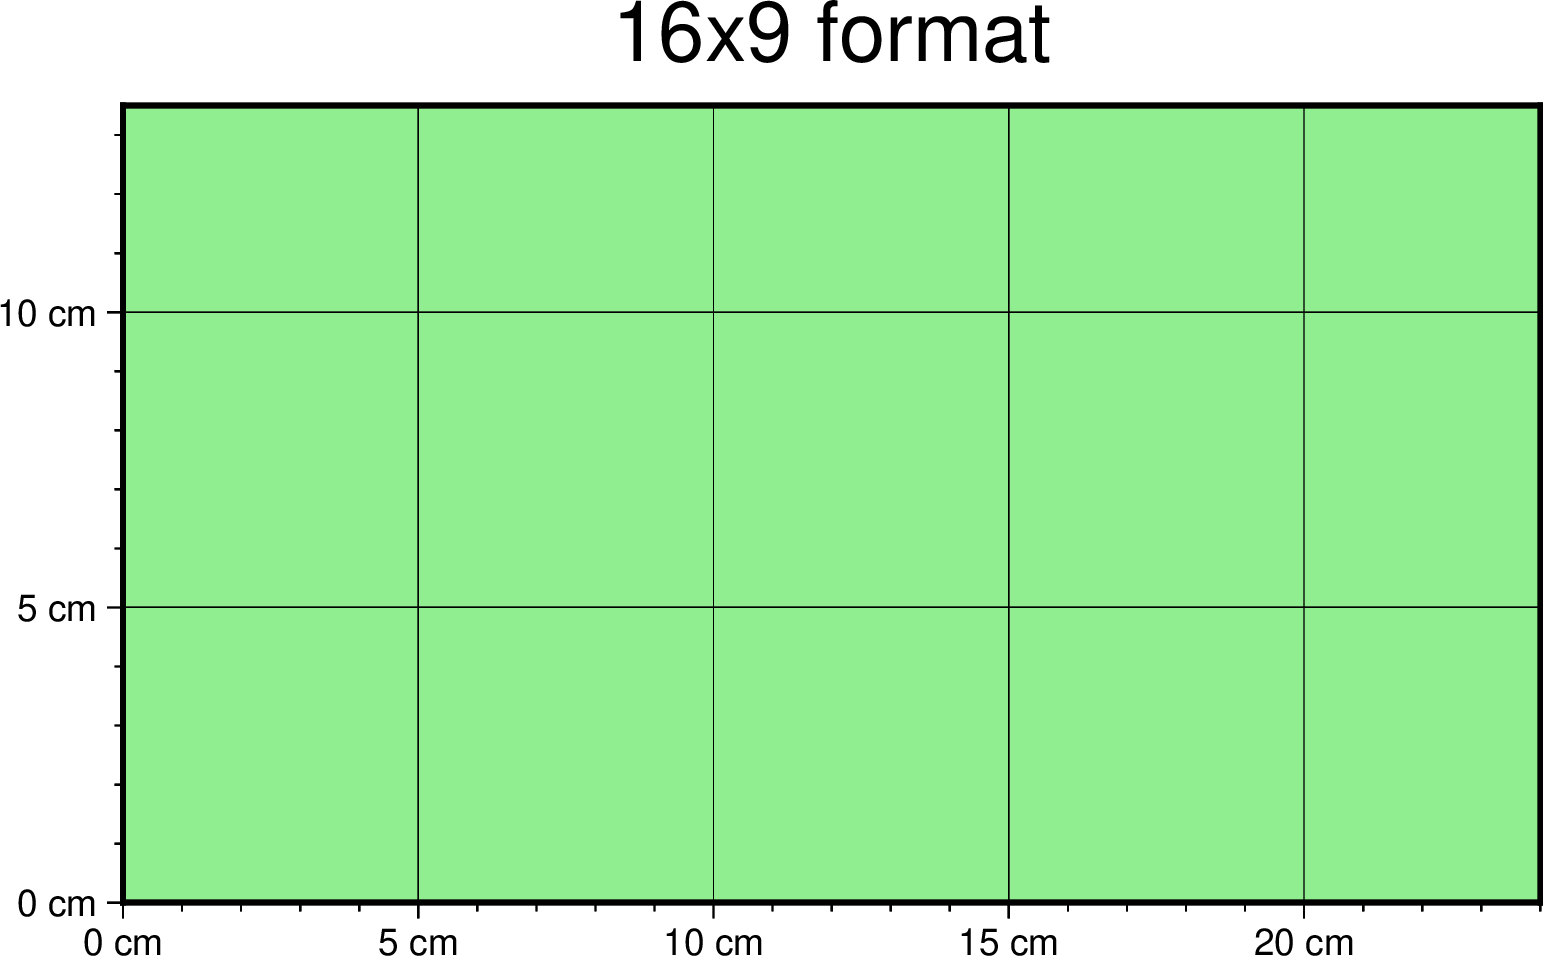
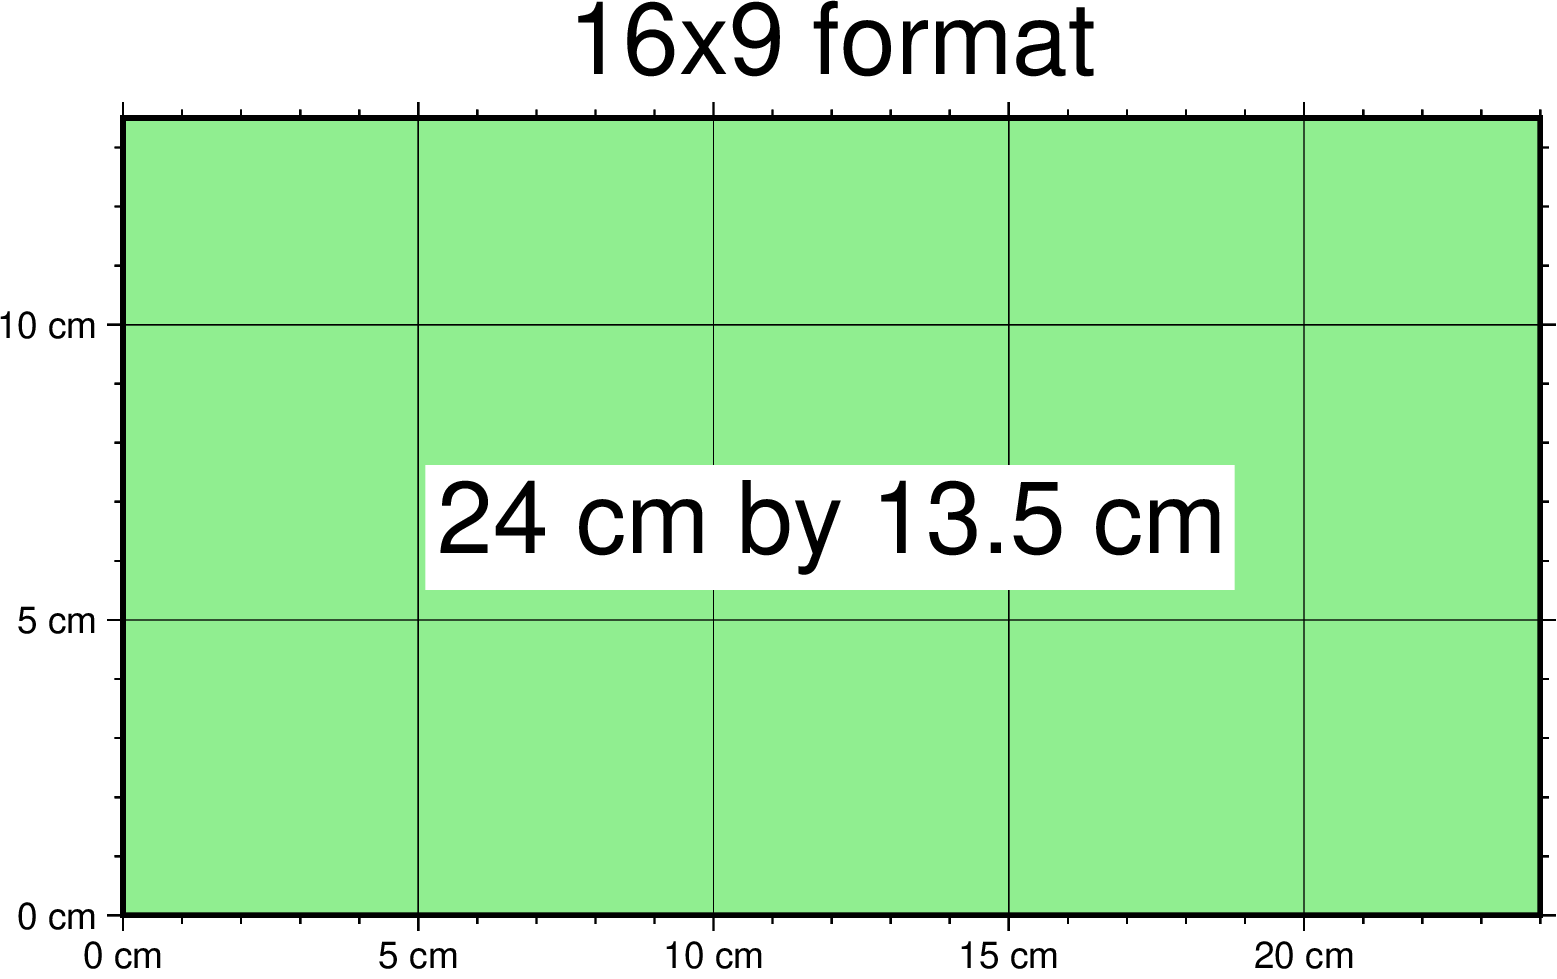
Martes noche

Changed region(s): [[0.0, 0.0, 1.0, 1.0]]

diff --git a/docs/tutorials/advance/animation.rst b/docs/tutorials/advance/animation.rst
@@ -232,8 +232,11 @@ We will fix the canvas size to match the map dimensions:
         :show-code: FALSE
 
         gmt begin Canvas png
-          gmt basemap -Jx1c -R0/24/0/13.5 -B+glightgreen -Bafg
+          gmt basemap -Jx0.5c -R0/24/0/13.5 -B+glightgreen+t"16x9 format" --FONT_TITLE=24,Helvetica
+          gmt basemap -Ba5f1g5+u" cm" -BWeSn
+	        echo 24 cm by 13.5 cm | gmt text -F+f24p+cMC -Gwhite
         gmt end
+
 
 .. Important::
 
